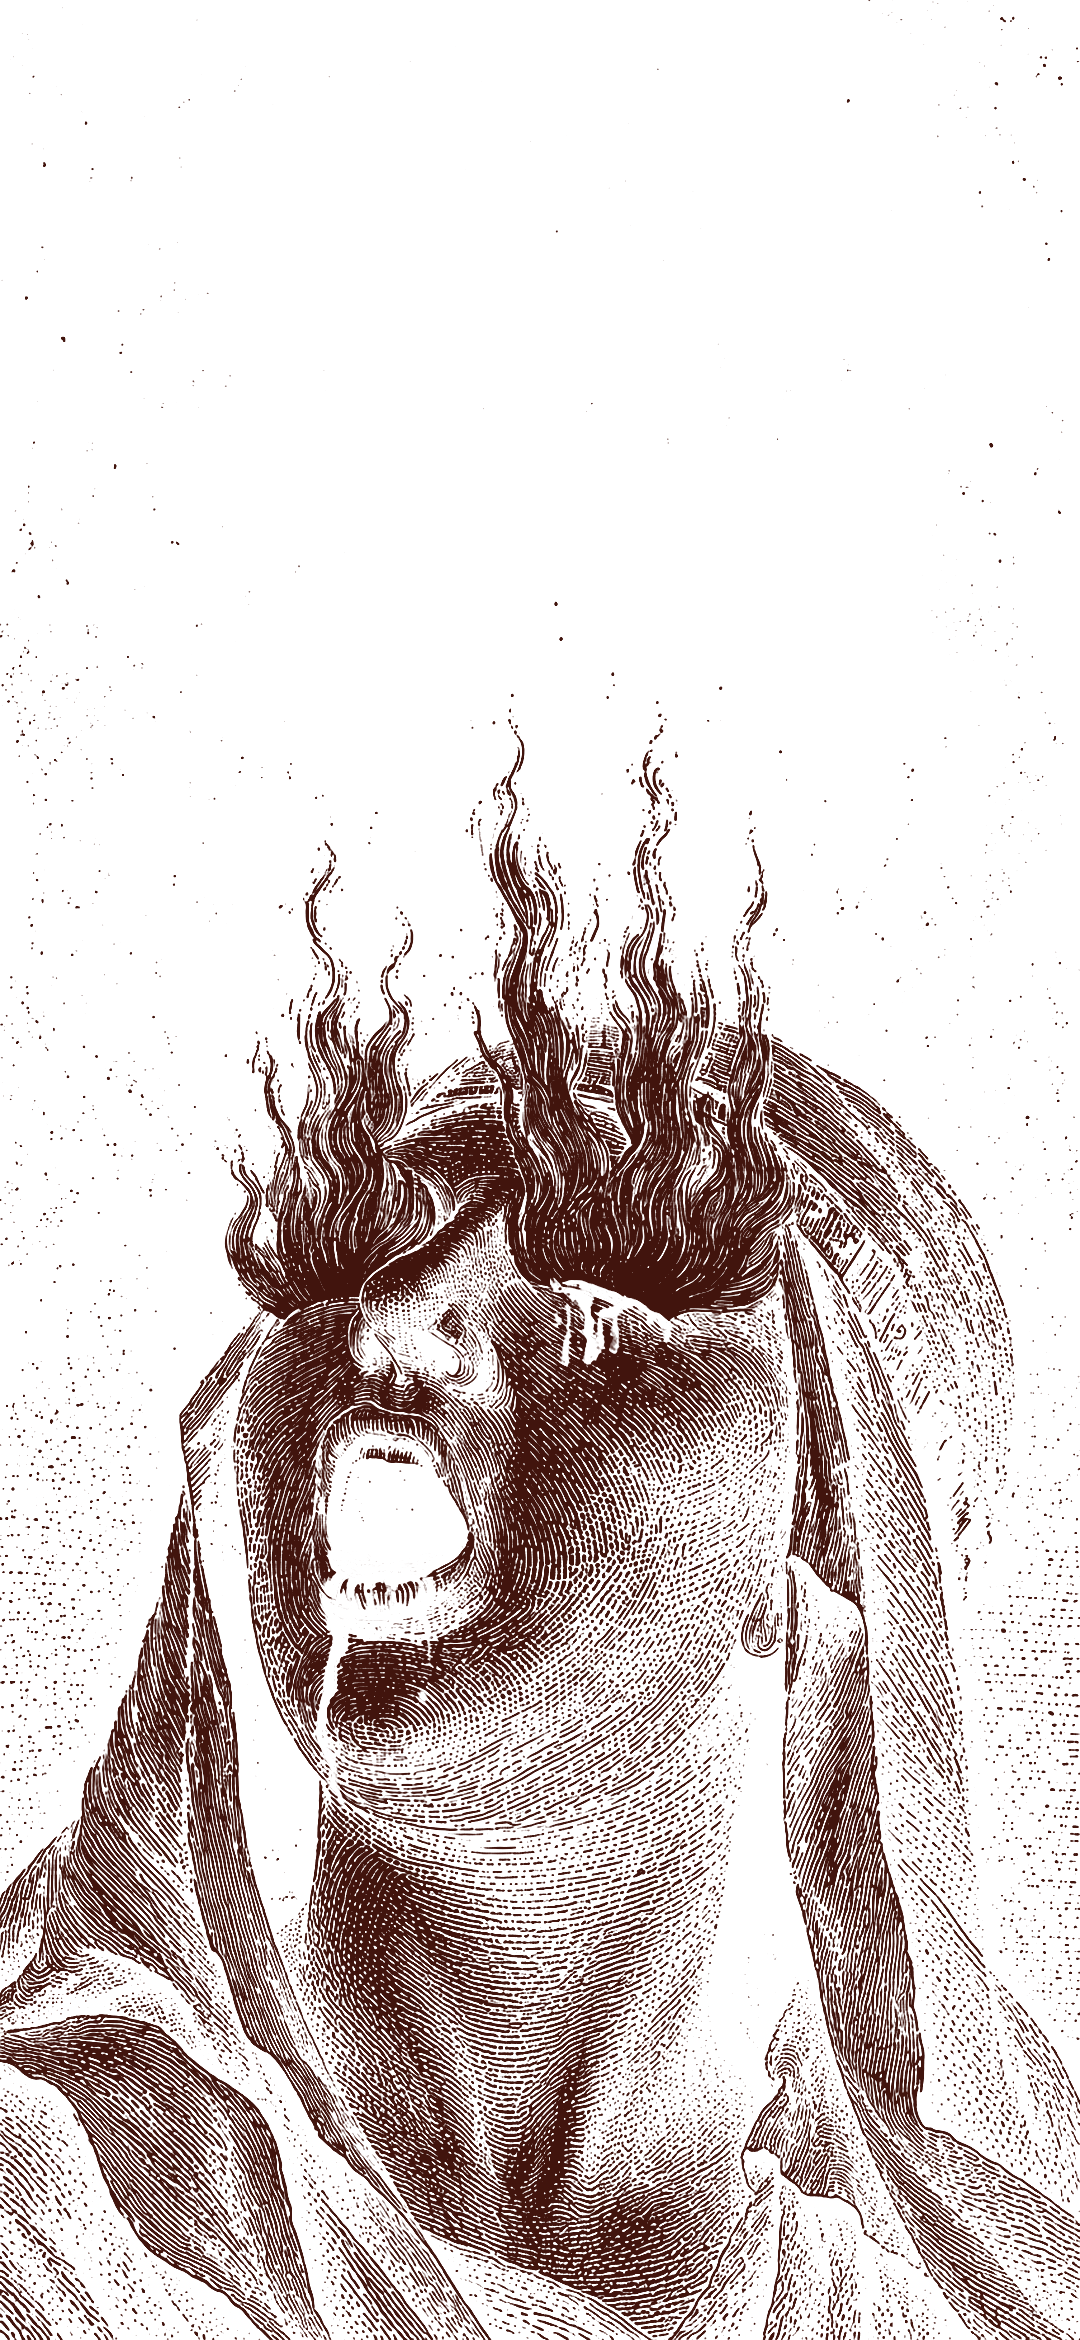
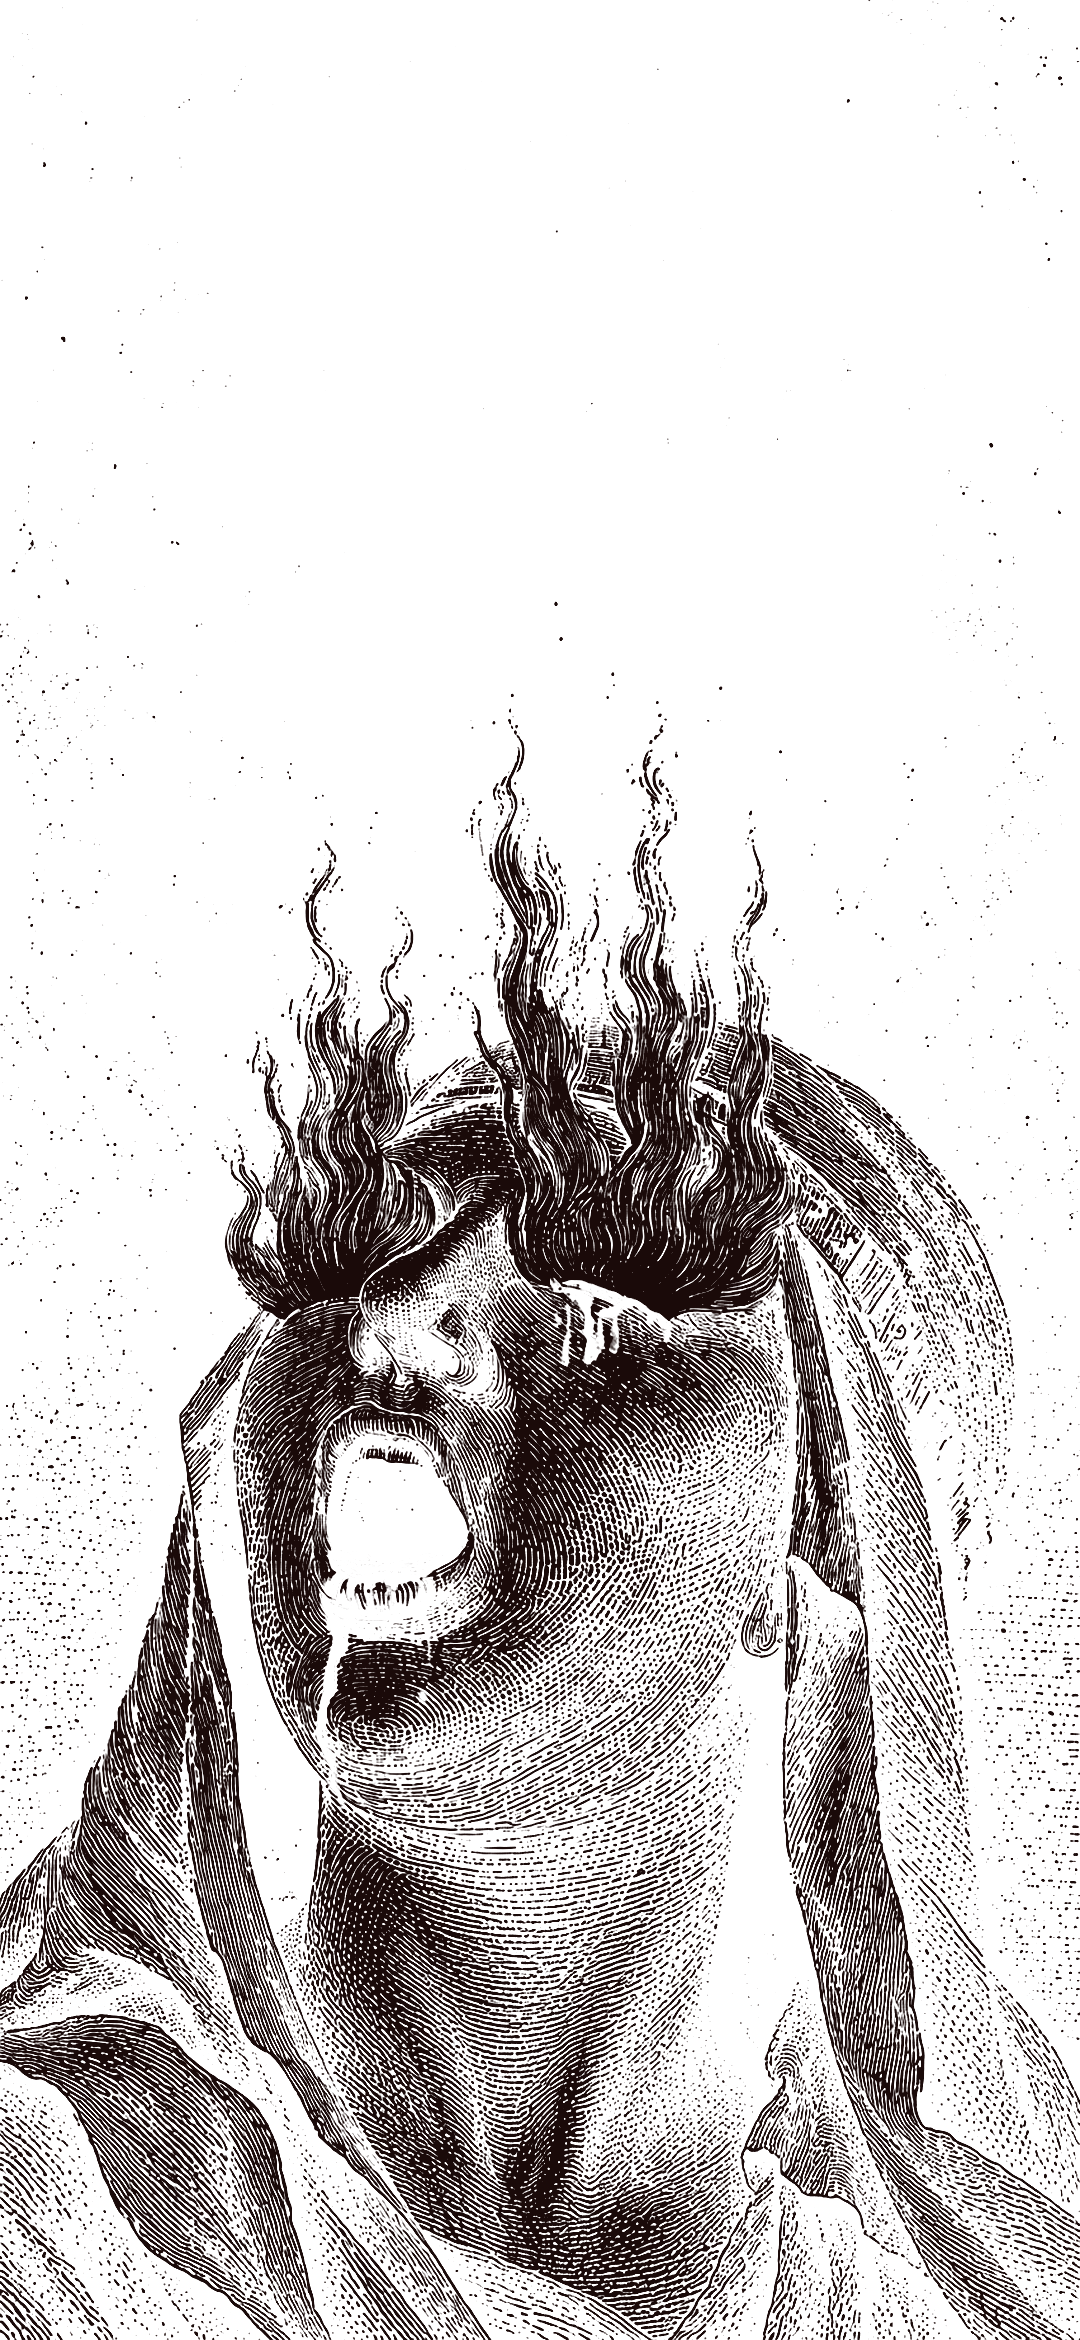
Invite: higher contrast, house number and start time; fix riso tint tone
- Second ink is now midnight #24304f printed as a 45% tint, so text in
  both inks is near-black on a mid grey (6.2:1, was 2.8:1)
- Details: 'Saturday / From 20:00' beside the date, 'Rue Robert Stumper 16'
  as its own line; figure fades out above the details
- treat.py riso: unmix now matches the print model (density start, then
  Gauss-Newton on area coverage), so tints keep the tone of the design
  instead of printing about half as dark

Claude-Session: https://claude.ai/code/session_016b6qAQEGXJcRPDY2kmFit5

Changed region(s): [[0.0, 0.312, 1.0, 1.0], [0.8861, 0.6239, 0.9167, 0.6551], [0.0917, 0.9983, 0.1222, 1.0]]

diff --git a/projects/danse-macabre-invite/invite.html b/projects/danse-macabre-invite/invite.html
@@ -6,13 +6,14 @@
 <link rel="stylesheet" href="../../.claude/skills/html-graphics/styles/_base.css">
 <link rel="stylesheet" href="../../.claude/skills/html-graphics/styles/riso-two-ink/tokens.css">
 <style>
-  /* Riso two-ink on cream: red + slate; where both print you get the dark maroon.
-     Flat colours below are what each ink mix looks like on the paper, so treat.py riso can separate them. */
+  /* Riso two-ink on cream: red + midnight; where both print you get a near-black.
+     Flat colours below are what each ink mix looks like on the paper, so treat.py riso can separate them.
+     Text in --both is 6.2:1 on the grey and 3.2:1 on the red (large type only there). */
   :root {
     --paper: #ece6d8;
-    --slate-bg: #646670;   /* slate ink at ~92% */
-    --red: #bb432d;        /* red ink */
-    --both: #41140d;       /* red over slate */
+    --slate-bg: #919295;   /* midnight ink #24304f at 45% */
+    --red: #b7341e;        /* red ink #c63a24 */
+    --both: #1a0a09;       /* red over midnight */
     --display: "UnifrakturMaguntia", serif;
     --text: "Unbounded", sans-serif;
   }
@@ -20,24 +21,25 @@
 
   .blobs { position: absolute; inset: 0; filter: url(#wobble); }
   .blob { position: absolute; background: var(--red); }
-  .b1 { left: 90px; top: 780px; width: 920px; height: 840px; border-radius: 62% 38% 55% 45% / 38% 58% 42% 62%; transform: rotate(-8deg); }
+  .b1 { left: 90px; top: 740px; width: 920px; height: 840px; border-radius: 62% 38% 55% 45% / 38% 58% 42% 62%; transform: rotate(-8deg); }
   .b2 { right: -230px; top: 60px; width: 520px; height: 560px; border-radius: 40% 60% 35% 65% / 60% 40% 60% 40%; }
   .b3 { left: -200px; top: 330px; width: 420px; height: 420px; border-radius: 50% 50% 45% 55% / 60% 50% 50% 40%; }
 
   /* The engraving, inverted into ink: dark figure and flames, blood in red. Fades out above the details. */
   .fig { position: absolute; left: 0; top: 20px; width: 1080px;
-    -webkit-mask: linear-gradient(#000 64%, transparent 79%); mask: linear-gradient(#000 64%, transparent 79%); }
+    -webkit-mask: linear-gradient(#000 61%, rgb(0 0 0 / .3) 66%, transparent 71%); mask: linear-gradient(#000 61%, rgb(0 0 0 / .3) 66%, transparent 71%); }
   .title { position: absolute; left: 48px; top: 150px; width: 984px; filter: url(#rough); }
 
   .kicker { position: absolute; left: 64px; top: 70px; font: 700 26px/1 var(--text); letter-spacing: .04em; }
   .side { position: absolute; top: 760px; height: 640px; writing-mode: vertical-rl; text-align: center; font: 700 44px/1 var(--text); letter-spacing: .02em; }
   .side.l { left: 60px; transform: rotate(180deg); } .side.r { right: 60px; }
 
-  .details { position: absolute; left: 64px; right: 64px; bottom: 70px; }
+  .details { position: absolute; left: 64px; right: 64px; bottom: 62px; }
   .when { display: flex; align-items: flex-end; gap: 28px; padding-bottom: 22px; border-bottom: 5px solid var(--red); }
   .when .date { font: 900 168px/.8 var(--text); letter-spacing: -.04em; }
-  .when .meta { font: 700 30px/1.25 var(--text); padding-bottom: 6px; }
-  .notes { margin-top: 22px; font: 500 30px/1.4 var(--text); }
+  .when .meta { font: 700 34px/1.25 var(--text); padding-bottom: 4px; }
+  .where { margin-top: 22px; font: 800 44px/1 var(--text); letter-spacing: -.01em; }
+  .notes { margin-top: 18px; font: 500 30px/1.4 var(--text); }
 </style>
 </head>
 <body>
@@ -152,7 +154,8 @@
   <p class="kicker">YOU ARE INVITED</p>
   <p class="side l">PRIVATE PARTY</p><p class="side r">INVITATION ONLY</p>
   <div class="details">
-    <div class="when"><span class="date">31.10</span><span class="meta">SATURDAY<br>RUE ROBERT STUMPER</span></div>
+    <div class="when"><span class="date">31.10</span><span class="meta">SATURDAY<br>FROM 20:00</span></div>
+    <p class="where">RUE ROBERT STUMPER 16</p>
     <p class="notes">BRING SOMETHING TO DRINK &amp; SHARE<br>COSTUME NOT NEEDED, BUT APPRECIATED</p>
   </div>
 </section>

diff --git a/.claude/skills/html-graphics/scripts/treat.py b/.claude/skills/html-graphics/scripts/treat.py
@@ -193,13 +193,26 @@ def cmd_riso(a):
         d = 1 - gray(img, a.levels, a.gamma)
         cov = [d, np.clip((d - 0.45) / 0.55, 0, 1)]
     else:
-        # Unmix each pixel into the two inks in optical density, where overprinting inks add
-        # (in reflectance they multiply), so the two-ink overprint separates into 100% + 100%.
+        # Unmix each pixel into ink coverages ca, cb that print it: paper * (1 - ca(1-A)) * (1 - cb(1-B)).
+        # Start in optical density, where overprinting inks add (100% + 100% separates exactly),
+        # convert to area coverage, then refine with a few Gauss-Newton steps so tints keep their tone.
         dens = lambda c: -np.log(np.clip(c, 1 / 255, 1))
+        target = src / np.maximum(paper, 1 / 255)
         m = np.stack([dens(ink_a), dens(ink_b)], axis=1)              # 3x2
         pinv = np.linalg.pinv(m)                                      # 2x3
-        cov_ab = np.einsum("ij,hwj->hwi", pinv, dens(src / np.maximum(paper, 1 / 255)))
-        cov = [np.clip(cov_ab[..., 0], 0, 1), np.clip(cov_ab[..., 1], 0, 1)]
+        d_ab = np.clip(np.einsum("ij,hwj->hwi", pinv, dens(target)), 0, 1)
+        ka, kb = 1 - ink_a, 1 - ink_b
+        ca = (1 - ink_a ** d_ab[..., :1]).sum(-1) / max(ka.sum(), 1e-3)
+        cb = (1 - ink_b ** d_ab[..., 1:]).sum(-1) / max(kb.sum(), 1e-3)
+        for _ in range(4):
+            ta, tb = 1 - ca[..., None] * ka, 1 - cb[..., None] * kb
+            r, ja, jb = ta * tb - target, -ka * tb, -kb * ta
+            a11, a12, a22 = (ja * ja).sum(-1) + 1e-4, (ja * jb).sum(-1), (jb * jb).sum(-1) + 1e-4
+            g1, g2 = (ja * r).sum(-1), (jb * r).sum(-1)
+            det = a11 * a22 - a12 * a12
+            ca = np.clip(ca - (a22 * g1 - a12 * g2) / det, 0, 1)
+            cb = np.clip(cb - (a11 * g2 - a12 * g1) / det, 0, 1)
+        cov = [ca, cb]
     # Misregister ink 2 before graining, repeating edge values (no wrap-around, no streaks at the edge).
     dx, dy = a.offset
     padded = np.pad(cov[1], ((max(dy, 0), max(-dy, 0)), (max(dx, 0), max(-dx, 0))), mode="edge")

diff --git a/projects/danse-macabre-invite/brief.md b/projects/danse-macabre-invite/brief.md
@@ -1,10 +1,11 @@
 # Danse Macabre: private party invite
 
-- Event: private party, Saturday 31 October 2026, Rue Robert Stumper
+- Event: private party, Saturday 31 October 2026, from 20:00, Rue Robert Stumper 16
 - Notes for guests: bring something to drink and share; costume not needed but appreciated
 - Must read as private and invitation-only; not obviously Halloween (no "Halloween" wording)
 - Format: 1080 x 1920 phone story (WhatsApp / Instagram)
-- Look: two-ink riso (red + slate on cream) after the user's reference; blackletter title chosen from thumbnails
+- Look: two-ink riso (red + midnight on cream) after the user's reference; blackletter title chosen from thumbnails
+- Contrast: midnight ink `#24304f` as a 45% tint for the grey; text prints in both inks (near-black), 6.2:1 on the grey, 3.2:1 on the red (large type only)
 - Image: the client's engraving (burning eyes), inverted into ink layers
 
 ## Files
@@ -14,4 +15,4 @@
 
 ## Rebuild
 node .claude/skills/html-graphics/scripts/render.cjs projects/danse-macabre-invite/invite.html
-python3 .claude/skills/html-graphics/scripts/treat.py riso projects/danse-macabre-invite/export/invite-invite.png -o projects/danse-macabre-invite/danse-macabre-invite.png --inks '#c63a24,#5b6070' --paper '#ece6d8' --grain .75 --offset 5,-4
+python3 .claude/skills/html-graphics/scripts/treat.py riso projects/danse-macabre-invite/export/invite-invite.png -o projects/danse-macabre-invite/danse-macabre-invite.png --inks '#c63a24,#24304f' --paper '#ece6d8' --grain .45 --offset 3,-2 --uneven .06
